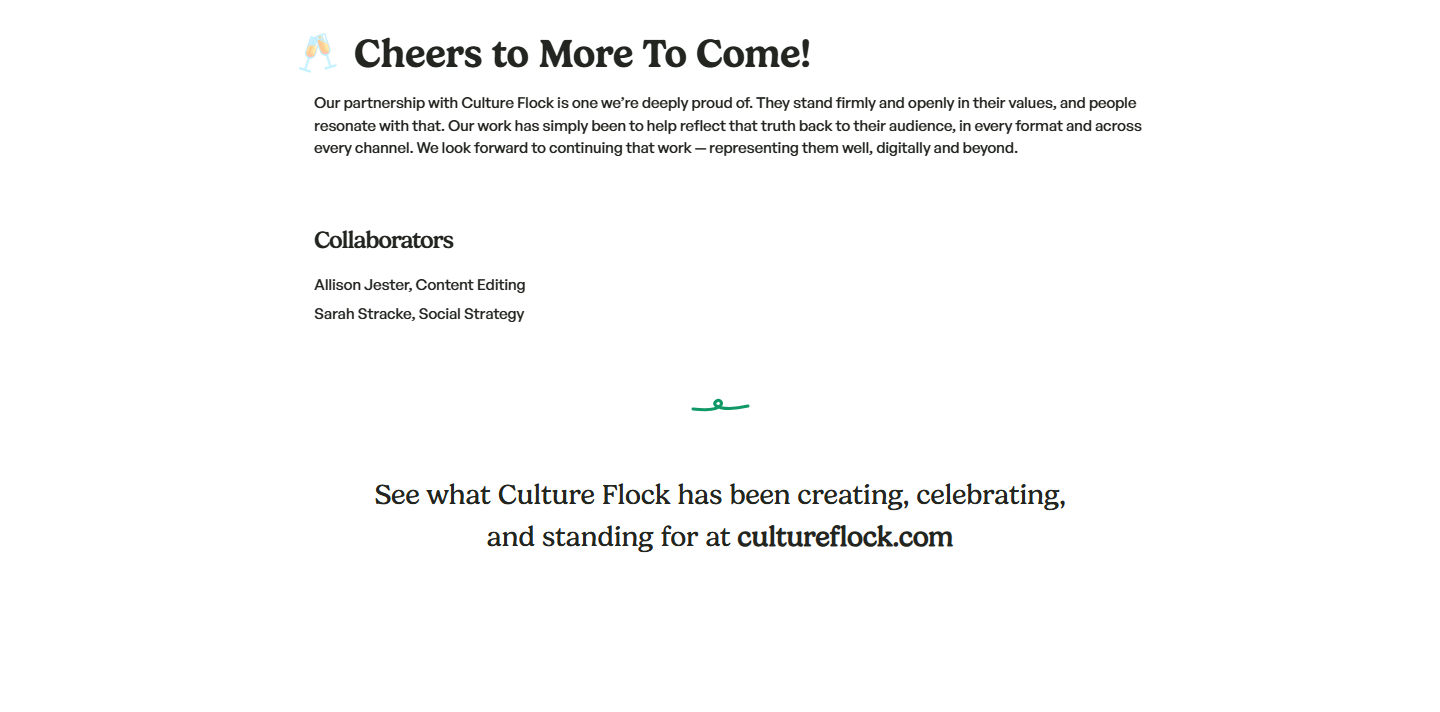
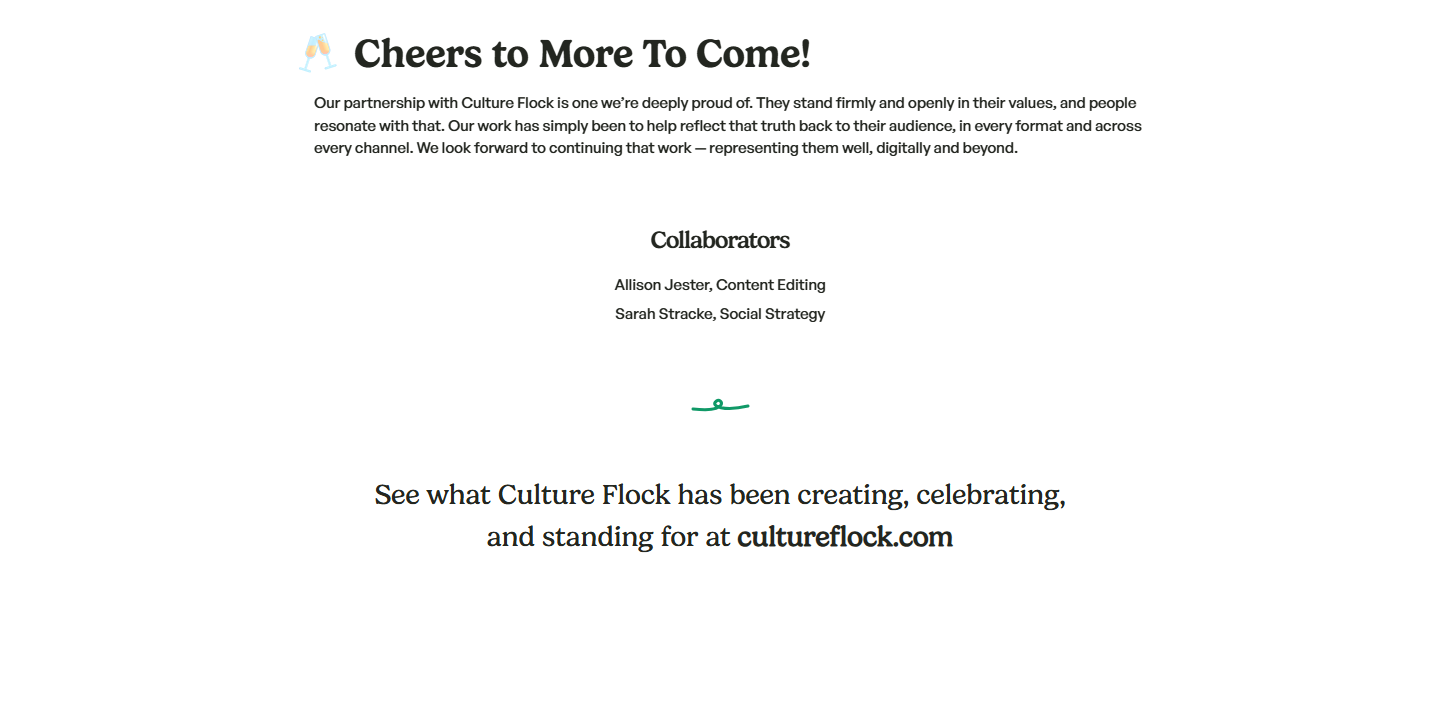
Kidsister round 1: credits block centered, contact form after shot without the Jotform strip

Changed region(s): [[0.2188, 0.309, 0.375, 0.4635], [0.4375, 0.309, 0.5938, 0.4635]]

diff --git a/ks-part2-7c3e91a4/round-1/index.html b/ks-part2-7c3e91a4/round-1/index.html
@@ -117,7 +117,7 @@ dl>div{grid-template-columns:1fr;gap:6px}.close{padding:56px 0}.close p{font-siz
 </div></section>
 <section id="drafts" class="band"><div class="wrap">
 <div class="section-intro"><p class="kicker">Drafts for our call</p><h2>Credits and case-study filters</h2><p>I put together an example of each so we have something to look at together. The placement and layout are still open.</p></div>
-<article class="draft" id="collaborators"><h3>Collaborators</h3><p class="narrow">Here is the credits block in place on Culture Flock, set in the page’s own type and spacing, sitting between the conclusion and the testimonial. Two things to decide on the call: where it lives (here at the end, or up top with the project details) and how each line reads (Name, Role as shown, or Role first). The names and roles below are the ones from your task list that will go in; give them a once-over for spelling and titles.</p>
+<article class="draft" id="collaborators"><h3>Collaborators</h3><p class="narrow">Here is the credits block in place on Culture Flock, centered under the conclusion in the page’s own type, so it reads like a closing credit before the sign-off line. Two things to decide on the call: where it lives (here at the end, or up top with the project details) and how each line reads (Name, Role as shown, or Role first). The names and roles below are the ones from your task list that will go in; give them a once-over for spelling and titles.</p>
 <p><a href="https://teal-exercise-583649.framer.app/zz-credits-draft" target="_blank" rel="noopener">Look at the Culture Flock draft ↗</a></p>
 <div class="compare screenshots"><figure><figcaption>Before · kidsister.co</figcaption><a class="image-link" href="evidence/credits-before-desktop.png" target="_blank" rel="noopener" aria-label="Open credits before screenshot full size"><picture><source media="(max-width: 809px)" srcset="evidence/credits-before-phone.png"><img src="evidence/credits-before-desktop.png" alt="credits: current site" loading="lazy"></picture></a></figure><figure><figcaption>After · draft on the preview</figcaption><a class="image-link" href="evidence/credits-after-desktop.png" target="_blank" rel="noopener" aria-label="Open credits after screenshot full size"><picture><source media="(max-width: 809px)" srcset="evidence/credits-after-phone.png"><img src="evidence/credits-after-desktop.png" alt="credits: preview" loading="lazy"></picture></a></figure></div>
 <div class="credits-list" aria-label="Credits from your task list"><p><strong>Garlic Girl</strong>Kylee Compton · Illustration</p><p><strong>Culture Flock</strong>Allison Jester · Content Editing<br>Sarah Stracke · Social Strategy</p><p><strong>Automobiles Unlimited</strong>Ryan Saunders · Brand Development, Site Design</p><p><strong>Big Blanket Co</strong>Paul Simmons · Lead Grip + Gaff<br>Annie Elzey · Digital Marketing Strategy</p></div>
